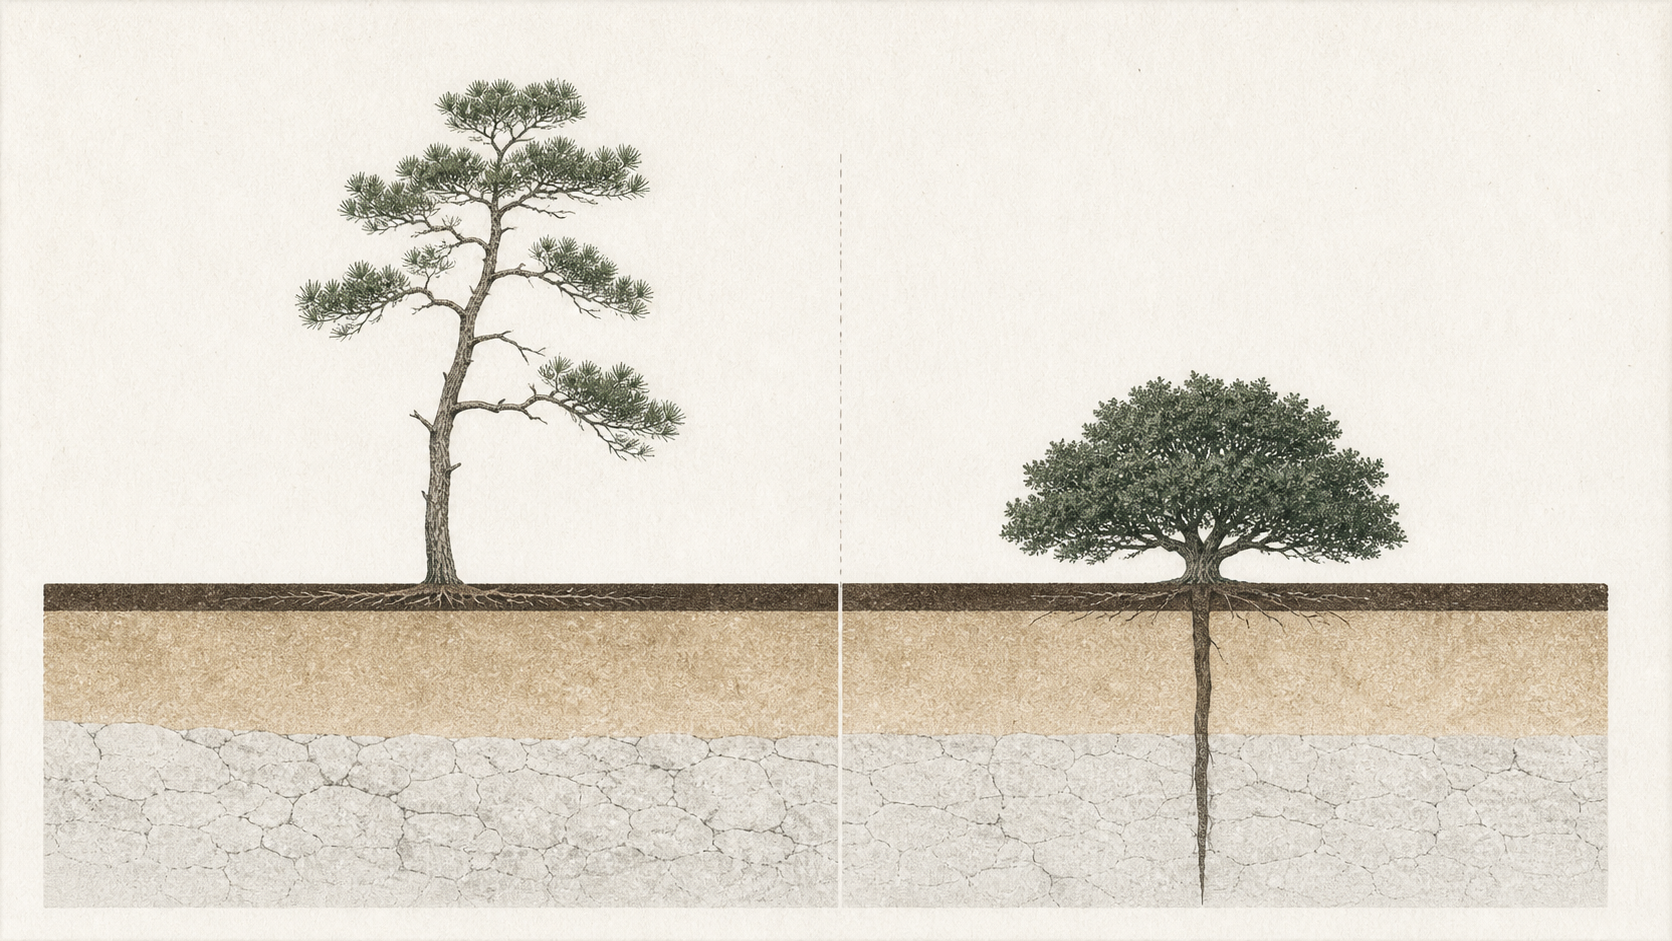
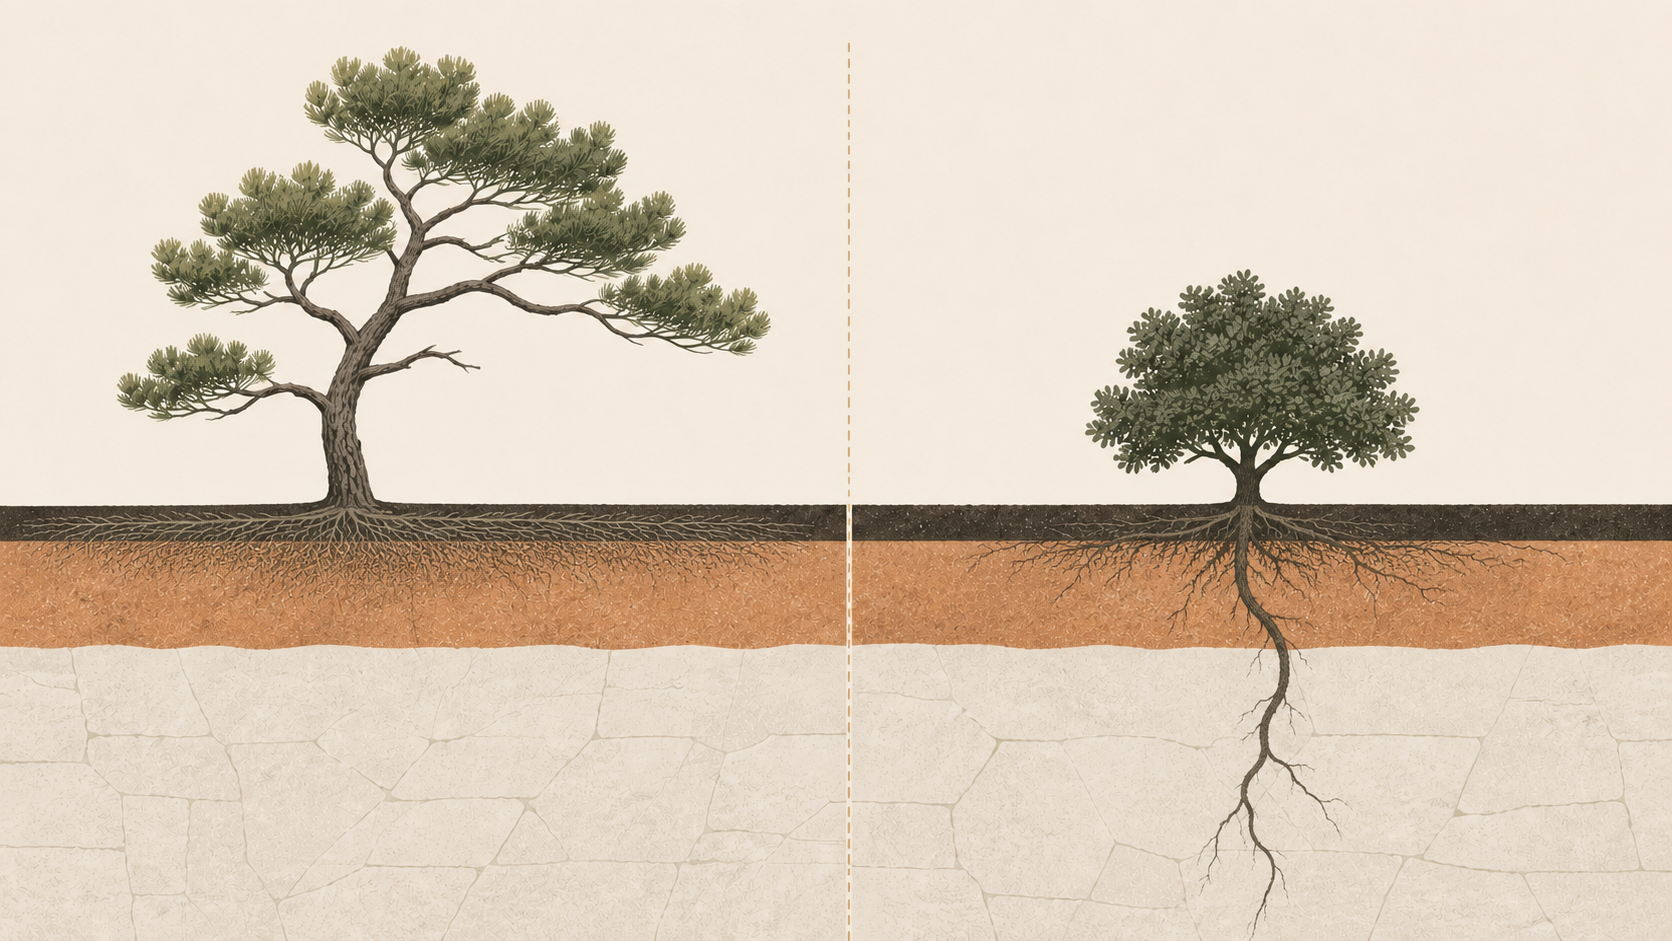
Update roots illustration to colorful version with warm soil layers

diff --git a/forest.html b/forest.html
@@ -469,7 +469,7 @@
         <p style="font-family:'Lora',serif;font-size:1rem;line-height:1.75;color:var(--mid);max-width:62ch;margin:1.25rem auto 0;">Aleppo pine roots stay in the topsoil — shallow, lateral, gone at 40 cm. They hold the surface but do nothing below it. Holm oak drives a single taproot straight through the subsoil and into the limestone, following cracks to water three metres down. That root is what builds drought resilience, carbon depth, and soil structure that outlasts the tree itself.</p>
       </div>
       <div class="roots-svg-wrap">
-        <img src="forest-roots-final.png" alt="Root cross-section — Aleppo pine shallow lateral roots vs holm oak deep taproot through limestone" style="display:block;width:100%;height:auto;border-radius:var(--radius-lg);">
+        <img src="forest-roots-final.png?v=2" alt="Root cross-section — Aleppo pine shallow lateral roots vs holm oak deep taproot through limestone" style="display:block;width:100%;height:auto;border-radius:var(--radius-lg);">
         <svg style="display:none" viewBox="0 0 900 500" xmlns="http://www.w3.org/2000/svg">
           <defs>
             <!-- limestone crack texture -->
